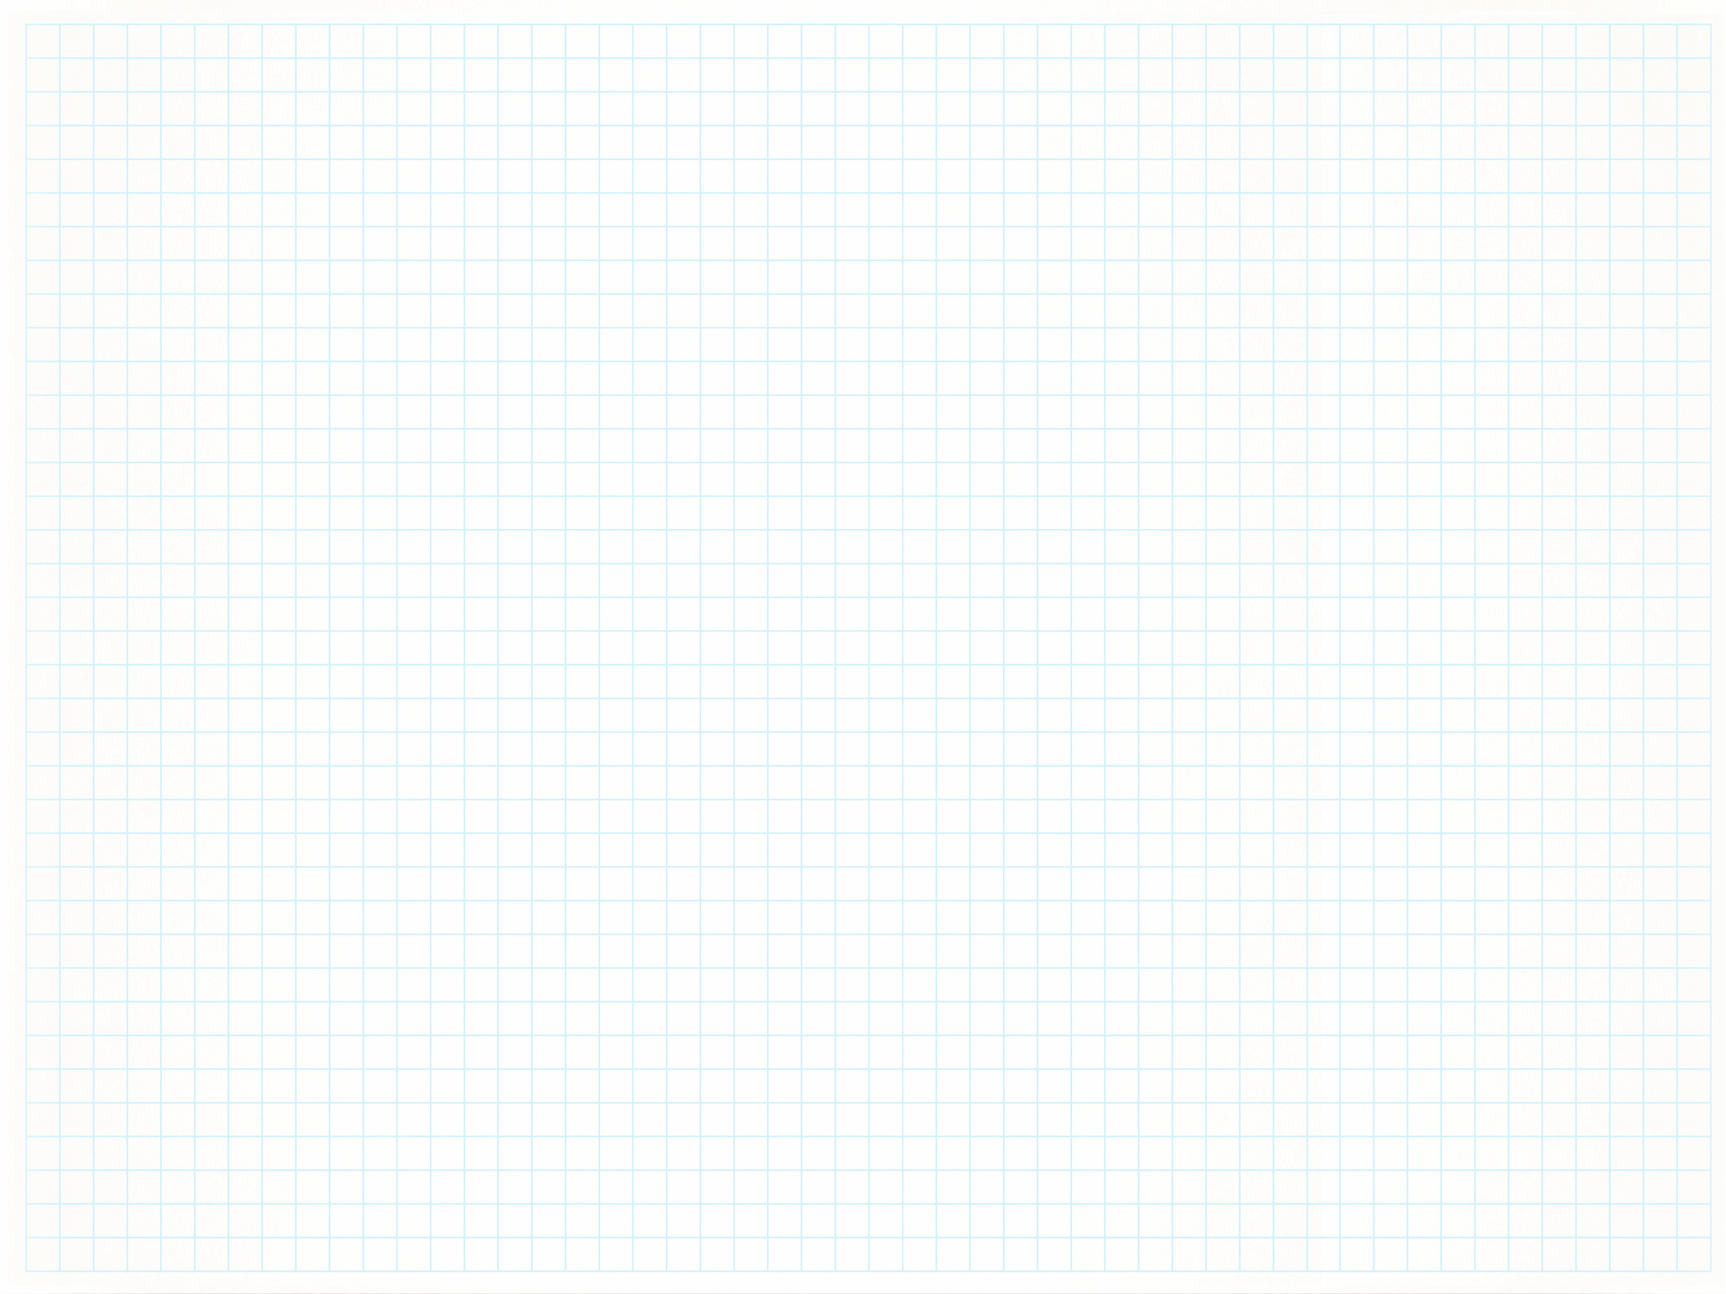
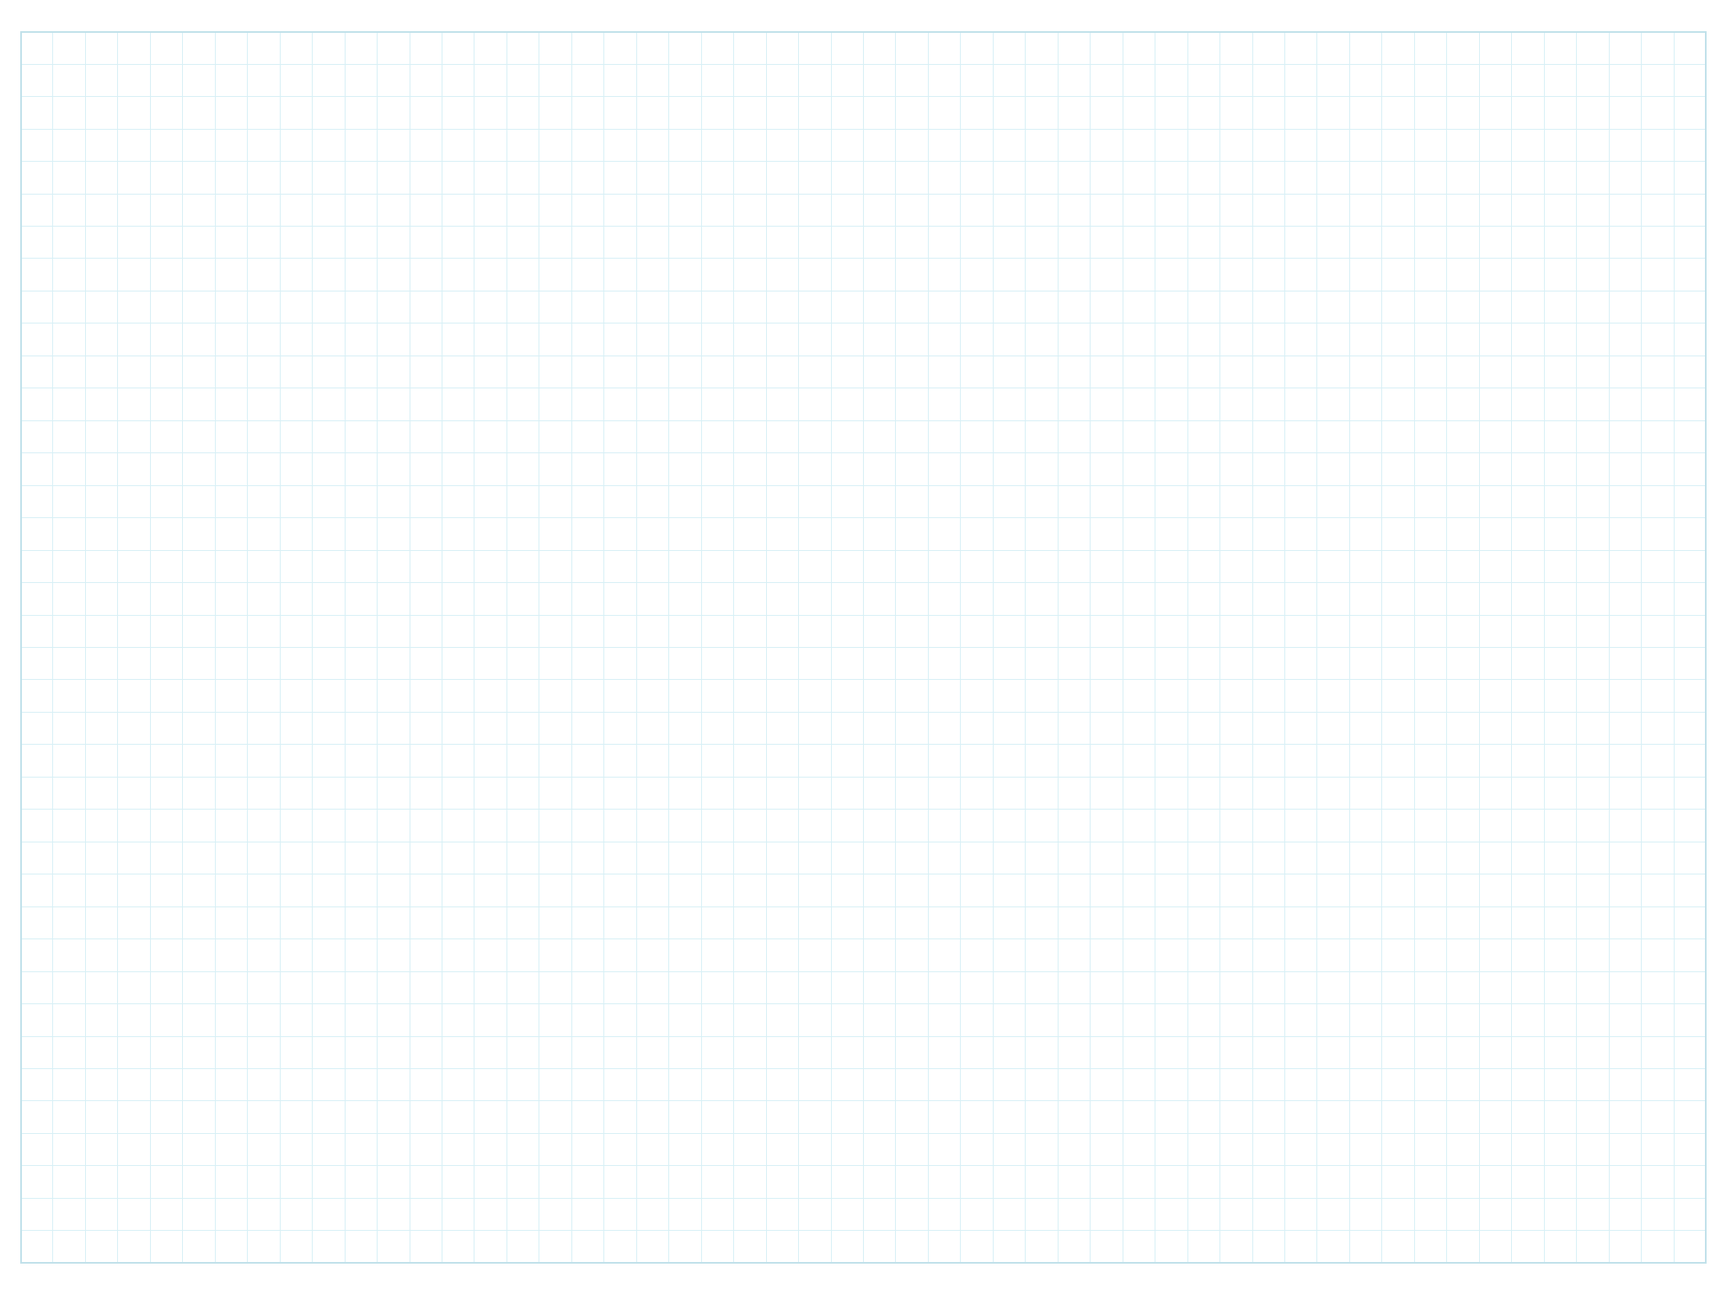
bench 5.5.8

Changed region(s): [[0.0, 0.0, 1.0, 1.0]]

diff --git a/bench/app.js b/bench/app.js
@@ -1,4 +1,4 @@
-const APP_VERSION = '5.5.6';
+const APP_VERSION = '5.5.8';
 
 const PDFJS_URL = 'https://cdn.jsdelivr.net/npm/pdfjs-dist@6.2.108/build/pdf.mjs';
 const PDFJS_WORKER_URL = 'https://cdn.jsdelivr.net/npm/pdfjs-dist@6.2.108/build/pdf.worker.mjs';
@@ -4321,13 +4321,57 @@ function commitHistory(before) {
   markDocumentDirty();
   updateHistoryButtons();
 }
+function historyPageViewerStructureEquivalent(a, b) {
+  if (!a || !b) return false;
+  // Undo/Redo of annotation-only edits should not rebuild the PDF/page canvases.
+  // These are the page properties that affect the base viewer geometry/content.
+  // Annotation arrays are deliberately excluded; those can be repainted in-place.
+  const fields = [
+    'id', 'sourceId', 'sourcePage', 'width', 'height', 'baseRotation', 'rotation',
+    'kind', 'generatedType', 'canvasWidth', 'canvasHeight', 'canvasPlacement',
+    'edgeTop', 'edgeRight', 'edgeBottom', 'edgeLeft',
+  ];
+  return fields.every(key => Object.is(a[key], b[key]));
+}
+function historyViewerStructureEquivalent(currentPages, nextPages) {
+  return currentPages.length === nextPages.length &&
+    currentPages.every((page, index) => historyPageViewerStructureEquivalent(page, nextPages[index]));
+}
+function cancelPendingAnnotationRedraws() {
+  for (const job of state.annotationRedrawJobs.values()) {
+    if (job?.kind === 'idle' && typeof cancelIdleCallback === 'function') cancelIdleCallback(job.id);
+    else if (job?.id != null) clearTimeout(job.id);
+  }
+  state.annotationRedrawJobs.clear();
+}
 function restorePages(snapshot) {
-  state.pages = snapshot.map(page => clonePageState(page));
+  const previousPages = state.pages;
+  const nextPages = snapshot.map(page => clonePageState(page));
+  const overlayOnly = historyViewerStructureEquivalent(previousPages, nextPages);
+
+  // A deferred exact Eraser repaint may still reference the pre-Undo page object.
+  // Cancel it before replacing state so it cannot later repaint stale annotations.
+  cancelPendingAnnotationRedraws();
+  state.pages = nextPages;
   const ids = new Set(state.pages.map(p => p.id));
   state.selected = new Set([...state.selected].filter(id => ids.has(id)));
   if (!state.activePageId || !ids.has(state.activePageId)) state.activePageId = state.pages[0]?.id ?? null;
   reconcileAnnotationSelection();
-  renderAll();
+
+  if (overlayOnly) {
+    // Keep the already-rendered PDF/generated-page canvases in the DOM. Repaint
+    // only Workbench annotation layers. This removes the visible whole-viewer
+    // flash that annotation Undo/Redo used to cause on all three target devices.
+    saveCurrentDocumentState({ readViewDom:false, skipLibrarySchedule:true });
+    for (const page of state.pages) redrawPageAnnotationOverlays(page);
+    updatePageCounts();
+    addInkDiagnostic('history-restore-finish', null, { overlayOnly:true, pages:state.pages.length });
+  } else {
+    // Page insertion/deletion/reorder/resize/rotation still requires a structural
+    // viewer rebuild because the underlying page canvases genuinely changed.
+    renderAll();
+    addInkDiagnostic('history-restore-finish', null, { overlayOnly:false, pages:state.pages.length });
+  }
 }
 function undo() {
   if (!state.history.length) return;
@@ -4712,8 +4756,30 @@ function createImageAssemblyDocument() {
 const DEFAULT_NEW_PAGE_WIDTH = 792;   // US Letter landscape, points
 const DEFAULT_NEW_PAGE_HEIGHT = 612;
 const PRESENTATION_PAGE_LONG_EDGE_PT = 11 * 72;
-const GRAPH_GRID_SPACING_PT = 18;     // 1/4 inch at 72 points/inch
-const GRAPH_GRID_MARGIN_PT = 9;
+const GRAPH_GRID_TARGET_SPACING_PT = 17.25; // Slightly smaller than the former 1/4-inch (18 pt) grid.
+const GRAPH_GRID_MIN_MARGIN_PT = 7;       // Small centered remainder margin keeps every visible cell complete.
+
+function graphGridLayout(width, height) {
+  const w = Math.max(1, Number(width) || 1);
+  const h = Math.max(1, Number(height) || 1);
+  const maxMargin = Math.min(GRAPH_GRID_MIN_MARGIN_PT, w / 4, h / 4);
+  const usableW = Math.max(1, w - 2 * maxMargin);
+  const usableH = Math.max(1, h - 2 * maxMargin);
+  const columns = Math.max(1, Math.floor(usableW / GRAPH_GRID_TARGET_SPACING_PT));
+  const rows = Math.max(1, Math.floor(usableH / GRAPH_GRID_TARGET_SPACING_PT));
+  // Use one common spacing in both directions so the cells remain true squares.
+  // The tiny leftover in each dimension is split evenly around the bounded grid.
+  const spacing = Math.max(1, Math.min(usableW / columns, usableH / rows));
+  const gridWidth = columns * spacing;
+  const gridHeight = rows * spacing;
+  return {
+    columns, rows, spacing,
+    left: (w - gridWidth) / 2,
+    right: (w + gridWidth) / 2,
+    top: (h - gridHeight) / 2,
+    bottom: (h + gridHeight) / 2,
+  };
+}
 
 function cssSafeAreaTopPx() {
   // Presentation reserves the unified annotation bar plus the top safe-area
@@ -4727,11 +4793,8 @@ function cssSafeAreaTopPx() {
 }
 
 function presentationTargetViewportDimensions() {
-  // If Presentation is already active, use its exact single-viewer geometry.
-  if (document.body.classList.contains('presentation') && els.viewer?.clientWidth > 0 && els.viewer?.clientHeight > 0) {
-    return { width: els.viewer.clientWidth, height: els.viewer.clientHeight };
-  }
-
+  // New/page-size commands are available outside Presentation mode, so always
+  // predict the usable Presentation viewport from the current device/window.
   // iPad uses app-level Presentation, so its current visual viewport predicts
   // Presentation size. Surface/Chromebook request native fullscreen, so use the
   // screen dimensions while preserving the device's current orientation.
@@ -5481,53 +5544,87 @@ function showNewFromTemplateChooser() {
 function drawGraphPaperCanvas(ctx, targetW, targetH, pageWidth, pageHeight) {
   const sx = targetW / pageWidth;
   const sy = targetH / pageHeight;
-  const spacingX = GRAPH_GRID_SPACING_PT * sx;
-  const spacingY = GRAPH_GRID_SPACING_PT * sy;
-  const marginX = GRAPH_GRID_MARGIN_PT * sx;
-  const marginY = GRAPH_GRID_MARGIN_PT * sy;
+  const layout = graphGridLayout(pageWidth, pageHeight);
+  const left = layout.left * sx;
+  const right = layout.right * sx;
+  const top = layout.top * sy;
+  const bottom = layout.bottom * sy;
+  const spacingX = layout.spacing * sx;
+  const spacingY = layout.spacing * sy;
+  const scale = (sx + sy) / 2;
+
   ctx.save();
   ctx.strokeStyle = 'rgba(92, 193, 217, 0.24)';
-  ctx.lineWidth = Math.max(0.55, Math.min(1.05, 0.6 * ((sx + sy) / 2)));
+  ctx.lineWidth = Math.max(0.55, Math.min(1.05, 0.6 * scale));
   ctx.beginPath();
-  for (let x = marginX; x <= targetW - marginX + 0.25; x += spacingX) {
-    const px = Math.round(x) + 0.5;
-    ctx.moveTo(px, marginY);
-    ctx.lineTo(px, targetH - marginY);
+  for (let col = 1; col < layout.columns; col++) {
+    const px = Math.round(left + col * spacingX) + 0.5;
+    ctx.moveTo(px, top);
+    ctx.lineTo(px, bottom);
   }
-  for (let y = marginY; y <= targetH - marginY + 0.25; y += spacingY) {
-    const py = Math.round(y) + 0.5;
-    ctx.moveTo(marginX, py);
-    ctx.lineTo(targetW - marginX, py);
+  for (let row = 1; row < layout.rows; row++) {
+    const py = Math.round(top + row * spacingY) + 0.5;
+    ctx.moveTo(left, py);
+    ctx.lineTo(right, py);
   }
   ctx.stroke();
+
+  // A slightly stronger boundary makes the complete outer row/column obvious
+  // without turning the graph paper into a boxed worksheet.
+  ctx.strokeStyle = 'rgba(72, 166, 193, 0.34)';
+  ctx.lineWidth = Math.max(0.8, Math.min(1.28, 0.76 * scale));
+  const half = ctx.lineWidth / 2;
+  ctx.strokeRect(left + half, top + half, Math.max(0, right - left - ctx.lineWidth), Math.max(0, bottom - top - ctx.lineWidth));
   ctx.restore();
 }
 
 function drawGraphPaperPdf(pdfPage, width, height, rgb) {
   const color = rgb(0.46, 0.77, 0.87);
-  const margin = Math.min(GRAPH_GRID_MARGIN_PT, width / 4, height / 4);
-  for (let x = margin; x <= width - margin + 0.01; x += GRAPH_GRID_SPACING_PT) {
-    pdfPage.drawLine({ start: { x, y: margin }, end: { x, y: height - margin }, thickness: 0.45, color, opacity: 0.24 });
+  const edgeColor = rgb(0.36, 0.69, 0.79);
+  const layout = graphGridLayout(width, height);
+  for (let col = 1; col < layout.columns; col++) {
+    const x = layout.left + col * layout.spacing;
+    pdfPage.drawLine({ start: { x, y: layout.top }, end: { x, y: layout.bottom }, thickness: 0.45, color, opacity: 0.24 });
   }
-  for (let y = margin; y <= height - margin + 0.01; y += GRAPH_GRID_SPACING_PT) {
-    pdfPage.drawLine({ start: { x: margin, y }, end: { x: width - margin, y }, thickness: 0.45, color, opacity: 0.24 });
+  for (let row = 1; row < layout.rows; row++) {
+    const y = layout.top + row * layout.spacing;
+    pdfPage.drawLine({ start: { x: layout.left, y }, end: { x: layout.right, y }, thickness: 0.45, color, opacity: 0.24 });
   }
+  const edgeThickness = 0.58;
+  const edgeOpacity = 0.34;
+  pdfPage.drawLine({ start: { x: layout.left, y: layout.top }, end: { x: layout.right, y: layout.top }, thickness: edgeThickness, color: edgeColor, opacity: edgeOpacity });
+  pdfPage.drawLine({ start: { x: layout.left, y: layout.bottom }, end: { x: layout.right, y: layout.bottom }, thickness: edgeThickness, color: edgeColor, opacity: edgeOpacity });
+  pdfPage.drawLine({ start: { x: layout.left, y: layout.top }, end: { x: layout.left, y: layout.bottom }, thickness: edgeThickness, color: edgeColor, opacity: edgeOpacity });
+  pdfPage.drawLine({ start: { x: layout.right, y: layout.top }, end: { x: layout.right, y: layout.bottom }, thickness: edgeThickness, color: edgeColor, opacity: edgeOpacity });
 }
 
 function drawGraphPaperPdfInRect(pdfPage, sourceWidth, sourceHeight, x, y, width, height, rgb) {
   const color = rgb(0.46, 0.77, 0.87);
+  const edgeColor = rgb(0.36, 0.69, 0.79);
   const sx = width / sourceWidth;
   const sy = height / sourceHeight;
-  const marginX = Math.min(GRAPH_GRID_MARGIN_PT, sourceWidth / 4) * sx;
-  const marginY = Math.min(GRAPH_GRID_MARGIN_PT, sourceHeight / 4) * sy;
-  const spacingX = GRAPH_GRID_SPACING_PT * sx;
-  const spacingY = GRAPH_GRID_SPACING_PT * sy;
-  for (let gx = marginX; gx <= width - marginX + 0.01; gx += spacingX) {
-    pdfPage.drawLine({ start: { x: x + gx, y: y + marginY }, end: { x: x + gx, y: y + height - marginY }, thickness: 0.45 * Math.min(sx, sy), color, opacity: 0.24 });
+  const layout = graphGridLayout(sourceWidth, sourceHeight);
+  const left = x + layout.left * sx;
+  const right = x + layout.right * sx;
+  const bottom = y + layout.top * sy;
+  const top = y + layout.bottom * sy;
+  const spacingX = layout.spacing * sx;
+  const spacingY = layout.spacing * sy;
+  const lineScale = Math.min(sx, sy);
+  for (let col = 1; col < layout.columns; col++) {
+    const gx = left + col * spacingX;
+    pdfPage.drawLine({ start: { x: gx, y: bottom }, end: { x: gx, y: top }, thickness: 0.45 * lineScale, color, opacity: 0.24 });
   }
-  for (let gy = marginY; gy <= height - marginY + 0.01; gy += spacingY) {
-    pdfPage.drawLine({ start: { x: x + marginX, y: y + gy }, end: { x: x + width - marginX, y: y + gy }, thickness: 0.45 * Math.min(sx, sy), color, opacity: 0.24 });
+  for (let row = 1; row < layout.rows; row++) {
+    const gy = bottom + row * spacingY;
+    pdfPage.drawLine({ start: { x: left, y: gy }, end: { x: right, y: gy }, thickness: 0.45 * lineScale, color, opacity: 0.24 });
   }
+  const edgeThickness = 0.58 * lineScale;
+  const edgeOpacity = 0.34;
+  pdfPage.drawLine({ start: { x: left, y: bottom }, end: { x: right, y: bottom }, thickness: edgeThickness, color: edgeColor, opacity: edgeOpacity });
+  pdfPage.drawLine({ start: { x: left, y: top }, end: { x: right, y: top }, thickness: edgeThickness, color: edgeColor, opacity: edgeOpacity });
+  pdfPage.drawLine({ start: { x: left, y: bottom }, end: { x: left, y: top }, thickness: edgeThickness, color: edgeColor, opacity: edgeOpacity });
+  pdfPage.drawLine({ start: { x: right, y: bottom }, end: { x: right, y: top }, thickness: edgeThickness, color: edgeColor, opacity: edgeOpacity });
 }
 
 async function readImageDimensions(file, url) {
@@ -7933,6 +8030,10 @@ function geometryAffectedPages(scope=null) {
 
 function geometryBaseSizeFromDialog() {
   const preset = els.pageGeometryPreset?.value || 'letter';
+  if (preset === 'presentation') {
+    const dims = presentationPageDimensions();
+    return { width: dims.width, height: dims.height };
+  }
   if (preset === 'first') {
     const first = state.pages[0];
     if (!first) return null;
@@ -9825,7 +9926,7 @@ function showDialog(kind) {
       <p><strong>Current display mode:</strong> ${standalone ? 'installed / standalone' : 'browser tab'}</p>`;
   } else {
     els.dialogContent.innerHTML = `<h2>Milestone ${APP_VERSION}</h2>
-      <p>Milestone 5.5.6 adds a Presentation Ratio option for new blank and graph-paper documents. The page aspect ratio is derived from the current device/orientation's single Presentation viewport, including the space reserved for the annotation toolbar, and the long page edge is normalized to exactly 11 inches. US Letter landscape remains available and existing-document inserted pages still match their current page geometry. Pen stabilization, image annotations, and the accepted 0.94 touch-scroll momentum are unchanged.</p>
+      <p>Milestone 5.5.8 removes the whole-viewer flash from annotation-only Undo/Redo. When page structure is unchanged, history restore now keeps the existing PDF/generated-page canvases and repaints only Workbench annotation overlays; structural page history still performs the normal full rebuild. Presentation-ratio sizing, complete-square graph paper, Pen stabilization, image annotations, and the accepted 0.94 touch-scroll momentum are unchanged.</p>
       <ul><li><strong>Unified top annotation strip:</strong> the same thin, full-width toolbar appears in View and Presentation. The new picture button inserts an image on the active page without becoming a drawing mode.</li><li><strong>Pen, Highlighter, partial eraser, and selection:</strong> Hand/View, Pen, Highlighter, Eraser, and Lasso/Select modes retain the validated 5.4.8 behavior and dense-page performance work.</li><li><strong>Images as annotations:</strong> inserted images are page-local objects stored in unrotated page coordinates. They can be selected, moved, proportionally resized, deleted, duplicated, copied, pasted, included in page/template duplication, and restored from the Local Library.</li><li><strong>Layering and erasing:</strong> inserted images render below Workbench ink/highlighter. The partial Eraser continues to affect ink only; passing over an inserted image does not destructively erase the image.</li><li><strong>PDF output:</strong> inserted images are embedded in exported PDFs and Workbench ink is drawn above them as continuous vector paths. Untouched-byte passthrough is disabled whenever a page has any Workbench annotation object.</li><li><strong>Workspace continuation:</strong> open documents, active workspace/split state, and viewer state are checkpointed for restart restoration. Undo/Redo remains session-local and starts fresh after a true restart.</li></ul>
       <p><strong>Image scope in 5.5.2:</strong> placement, proportional resize, selection actions, persistence, and PDF export. Cropping, independent image rotation, and system-clipboard image paste are intentionally deferred. New blank and graph-paper documents can use either US Letter landscape or a current-device Presentation-ratio page with an 11-inch long edge.</p>
       <div class="update-panel"><strong>PWA update</strong><p>Use this if an installed Home Screen/Desktop copy is still showing an older version after the hosted files have changed.</p><button id="forceUpdateBtn" type="button">Reload latest version</button><p id="updateStatus" class="update-status"></p></div>`;
@@ -9952,6 +10053,7 @@ function toggleMoreMenu(force) {
 let resizeTimer;
 function onResize() {
   updateNewDocumentPageSizeUi();
+  updatePageGeometryDialog();
   clearTimeout(resizeTimer);
   if (!els.moreMenu.classList.contains('hidden')) positionMoreMenu();
   if (!els.insertPageMenu?.classList.contains('hidden') && state.insertMenuAnchor) positionAnchoredPopover(els.insertPageMenu, state.insertMenuAnchor);

diff --git a/bench/index.html b/bench/index.html
@@ -11,7 +11,7 @@
   <title>PDF Workbench</title>
   <link rel="manifest" href="manifest.webmanifest">
   <link rel="apple-touch-icon" href="icons/icon-192.png">
-  <link rel="stylesheet" href="styles.css?v=5.5.6">
+  <link rel="stylesheet" href="styles.css?v=5.5.8">
 </head>
 <body>
   <div id="app" class="app-shell">
@@ -198,7 +198,7 @@
 
       <section id="exportPane" class="export-pane hidden" aria-label="Files and PDF output">
         <div class="export-card files-card">
-          <div class="export-kicker">Milestone 5.5.6</div>
+          <div class="export-kicker">Milestone 5.5.8</div>
           <h1>Files</h1>
           <p class="export-summary">Documents can now stay in a persistent local Library on this device. Open documents remain the active working set; closed Library documents can be reopened later without re-importing them.</p>
 
@@ -523,6 +523,7 @@
               <span>Target size</span>
               <select id="pageGeometryPreset">
                 <option value="letter" selected>US Letter (8.5 × 11 in)</option>
+                <option value="presentation">Presentation Ratio · long side 11 in</option>
                 <option value="legal">US Legal (8.5 × 14 in)</option>
                 <option value="a4">A4 (210 × 297 mm)</option>
                 <option value="first">Match first page size</option>
@@ -730,6 +731,6 @@
     </dialog>
   </div>
 
-  <script type="module" src="app.js?v=5.5.6"></script>
+  <script type="module" src="app.js?v=5.5.8"></script>
 </body>
 </html>

diff --git a/bench/sw.js b/bench/sw.js
@@ -1,9 +1,9 @@
-const CACHE_NAME = 'pdf-workbench-m5.5.6-v1';
+const CACHE_NAME = 'pdf-workbench-m5.5.8-v1';
 const APP_SHELL = [
   './',
   './index.html',
-  './styles.css?v=5.5.6',
-  './app.js?v=5.5.6',
+  './styles.css?v=5.5.8',
+  './app.js?v=5.5.8',
   './manifest.webmanifest',
   './icons/icon-192.png',
   './icons/icon-512.png'

diff --git a/bench/README.md b/bench/README.md
@@ -1,3 +1,27 @@
+# PDF Workbench — Milestone 5.5.8
+
+## 5.5.8 Undo/Redo repaint cleanup
+
+- Annotation-only **Undo/Redo no longer rebuilds the PDF/generated-page viewer canvases**. If page IDs/order/geometry/source are unchanged, Workbench keeps the existing page DOM and repaints only the annotation overlays.
+- Structural history operations (page insert/delete/reorder/resize/rotation/crop/margins) still use the normal full viewer rebuild because the base page canvases genuinely change.
+- Pending deferred Eraser redraw jobs are cancelled before a history restore so an old page object cannot repaint stale annotations after Undo/Redo.
+- Diagnostics now record `history-restore-finish` with `overlayOnly:true/false`.
+- Presentation-ratio sizing, complete-square graph paper, Pen stabilization, image annotations, session-only Undo policy, and 0.94 touch-scroll inertia are unchanged.
+
+================ PRIOR README HISTORY ================
+
+# PDF Workbench — Milestone 5.5.7
+
+## 5.5.7 Presentation sizing + graph-paper refinement
+
+- Presentation-ratio sizing now always **predicts the usable Presentation viewport from the current device/window outside Presentation mode**. The calculation reserves the unified annotation toolbar height and top safe-area inset; it no longer contains an unreachable "create while already in Presentation" measurement path.
+- **Pages → Page size…** now includes **Presentation Ratio · long side 11 in**. It uses the same current-device ratio calculation as New documents, while the existing orientation selector still controls whether selected/all pages preserve orientation, become portrait, or become landscape.
+- New graph paper uses a nominal **17.25 pt** square target (slightly smaller than the former 18 pt / 1/4-inch grid). For each generated page size, Workbench chooses an integer row/column count and one common spacing so every visible grid cell is a complete square. Any tiny remainder is centered as a small outer margin.
+- The graph pattern now has a **slightly darker/thicker outer boundary** so the edge of the complete-square grid is distinguishable from interior lines. Screen rendering, previews, and PDF export use the same grid layout.
+- Fit Page behavior, Presentation viewer behavior, Pen stabilization, image annotations, session-only Undo, and the accepted 0.94 touch-scroll momentum are unchanged.
+
+================ PRIOR README HISTORY ================
+
 # PDF Workbench — Milestone 5.5.6
 
 ## 5.5.6 Presentation-ratio new documents
